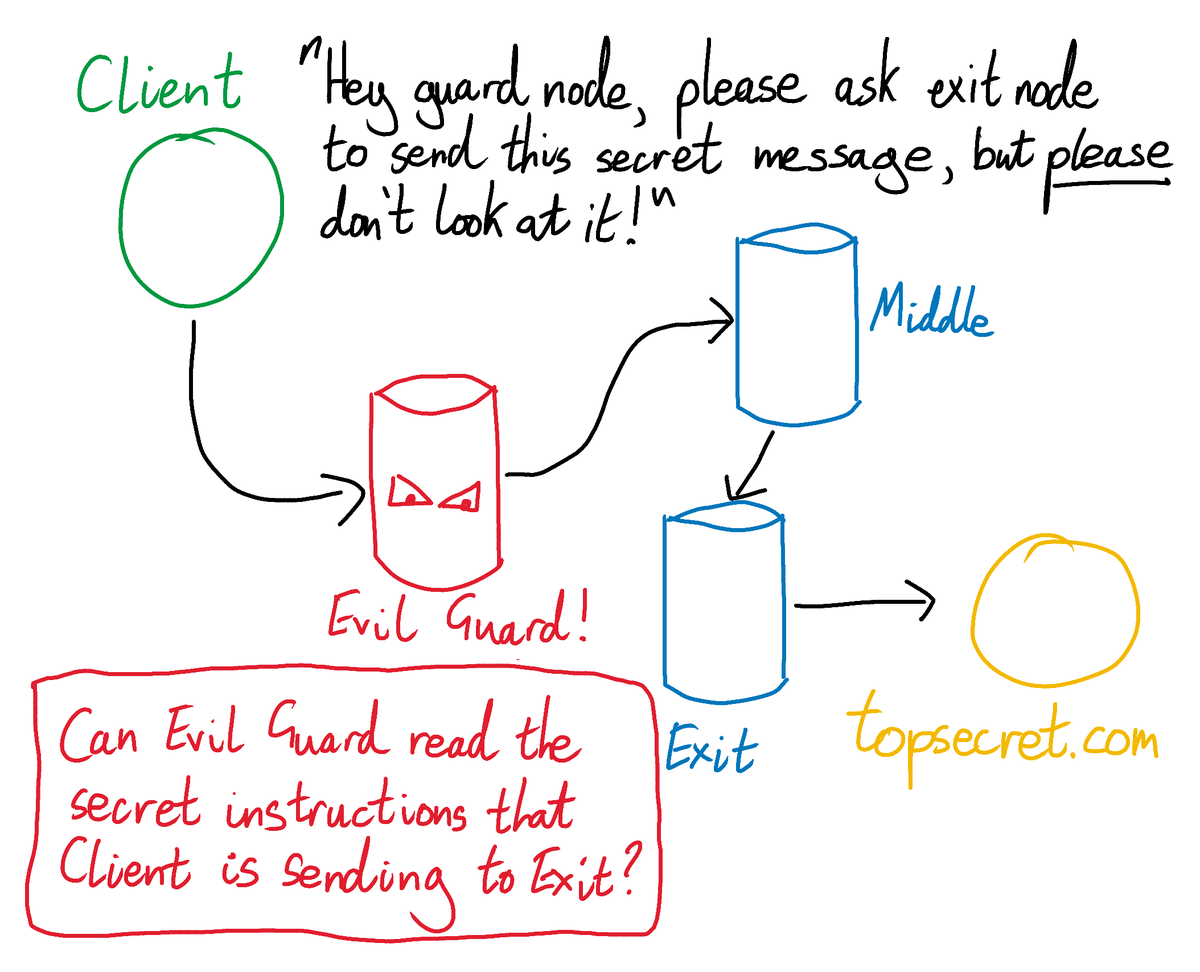
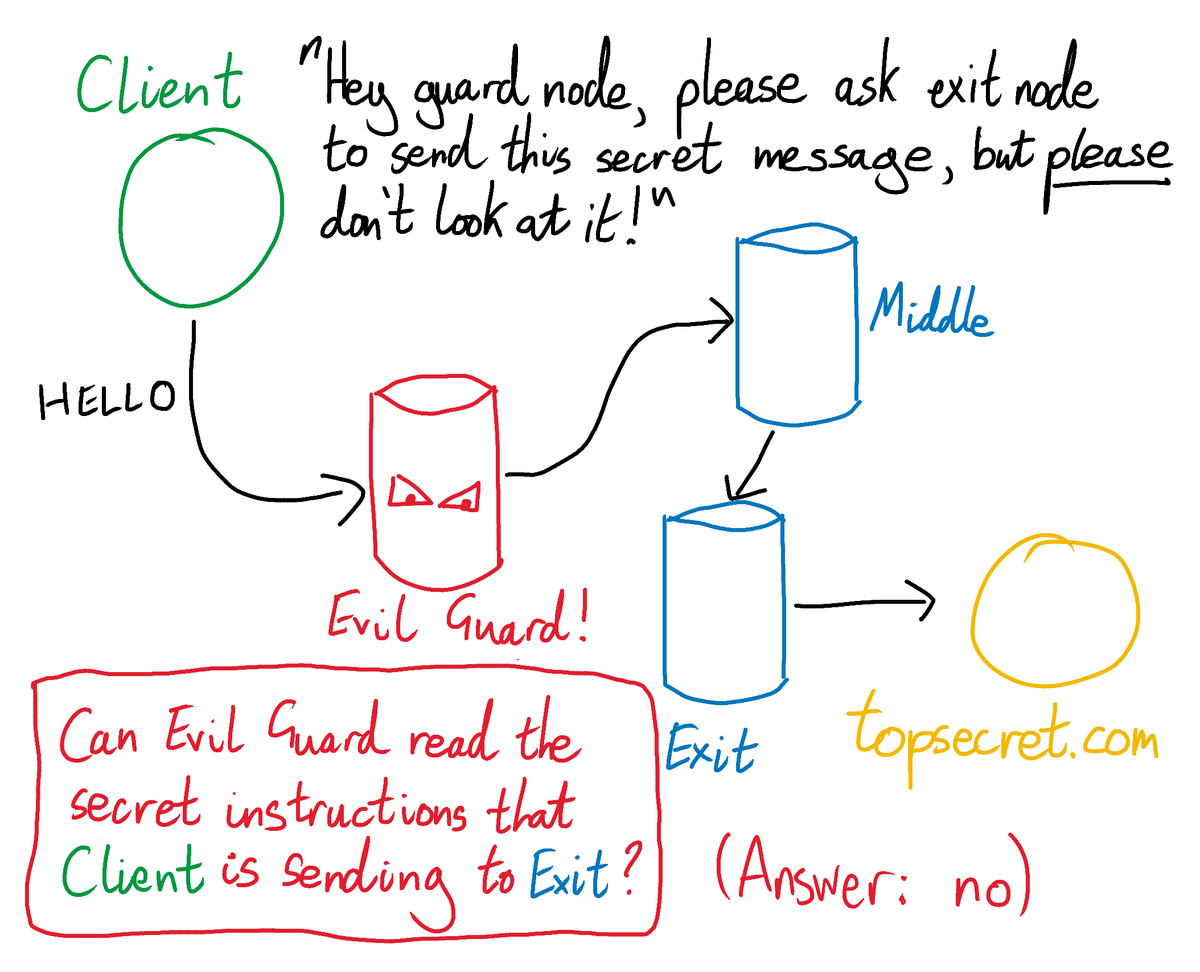
tor

diff --git a/_posts/2019-02-20-a-comprehensive-introduction-to-tor.md b/_posts/2019-02-20-a-comprehensive-introduction-to-tor.md
@@ -1,0 +1,196 @@
+---
+title: "A comprehensive introduction to Tor"
+layout: post
+tags: [Security]
+og_image: https://robertheaton.com/images/afl-ruby-cover.png
+published: false
+---
+Person X is a pro-democracy activist who lives in an anti-democratic country. She uses the internet to communicate with other activists and human rights watchdogs. Person X is not her real name, but that's OK because she's not a real person either. The government controls her country's only Internet Service Provider, and it uses this power to run a very effective online censorship and spying program. The internet is a dangerous place for Person X.
+
+[PIC of something]
+
+The first time that Person X used the internet to communicate with her fellow activists, she did so using unencrypted HTTP. The government was monitoring her network traffic, and was able to record the websites that she visited, the passwords that she used, and the messages that she sent. Once the government had seen enough, they arrested Person X and threw her in jail for reeducation. They also used her passwords to impersonate her online, and were able to destroy the activist cell that she had been a part of.
+
+Person X did not learn much about the dangers of freedom while she was in jail. However, she did learn a lot about encryption and HTTPS. When she was released she joined a new activist group, and she started making sure to only communicate with her new comrades over encrypted HTTPS. Of course, the government and secret police were still monitoring Person X's network, but thanks to HTTPS they could no longer read the contents of any of her messages. However, they could still see the IP addresses of the servers that she was accessing, thanks to her IP packet headers. They noticed that many of these IP addresses belonged to servers known to be hosting seditious material, and began blocking her access to them. Snooping on Person X's browsing destinations also alerted the government to the existence of several new activist servers that it hadn't previously known about.
+
+Person X was frustrated and alone. Then one day a friend told here about the Tor network, and snuck her a USB stick containing a copy of the Tor browser. Person X started to use Tor to browse the internet, and was able to securely access banned websites once again. Even though the government had not stopped monitoring Person X's internet connection, Tor prevented them from seeing the IP addresses of the servers that she was accessing. The government no longer knew whether Person X was accessing harmless distractions that might help keep her downtrodden, or whether she was back to her old, troublemaking ways.
+
+Worried, the government tried to block all Tor traffic across the entire country. Person X countered by using *bridge nodes* and *pluggable transports* (see below) to disguise the fact that she was using Tor at all. She is still by no means perfectly safe from online surveillance. She could still be busted by carelessness, a sufficiently motivated and powerful adversary, or by statistical bad luck. Nonetheless, she's in a much better place than she used to be. Her battle continues.
+
+---
+
+Admittedly Tor is also very useful for people interested in buying and selling guns, drugs, and child porn. But the world is a complex place, and it's my blog so I get to choose the main characters.
+
+---
+
+## Introduction - Tor isn't magic
+
+The most common way that people access the Tor network is through the Tor browser. The Tor browser looks and feels just like any other modern web browser. But whereas Chrome and Firefox send their internet traffic directly to the websites requested by the user, the Tor browser sends it traffic via the Tor network.
+
+The Tor network is a web of 8000 or so (as of January 2019) servers, run and maintained by volunteers. Some of these volunteers are individuals; some are universities; some are companies. And even though they don't publicize this fact, some are almost certainly government intelligence agencies and other organizations interested in attacking the Tor network. However, even though this type of subterfuge is absolutely something for Tor to be concerned about, it is not a particularly existential problem. As we will see, so long as the fraction of Tor nodes controlled by adversaries stays low, the network remains secure.
+
+There's nothing special about Tor nodes or Tor traffic. Tor nodes are just normal computers connected to the normal internet that happen to be running a piece of software called `tor`. The Tor network is just what you get when these nodes start talking to each other. You can use the Tor network to access the normal internet, or special "onion sites" that are only accessible via Tor. In this post we're only going to look at how Tor accesses the normal internet. Onion sites are a fascinating story for another day.
+
+Tor nodes even communicate over the same cables as everyone else. There's no secret skein of clandestine, dark-web fibre that only Julian Assange has the password for. Instead, Tor provides private connections over the public internet using misdirection.
+
+## Tor keeps you safe from snoopers
+
+When you visit a website using a normal web browser, your computer makes a direct TCP connection with the website's server. Anyone monitoring your internet connection (or that of the server) could trivially inspect your IP packet headers, discover the IP addresses of both you and the server, and deduce that you were communicating with each other. So long as you and the server were communicating using encrypted HTTPS, the snooper wouldn't be able to read the actual contents of your messages. But - as Person X knows all too well - sometimes even just knowing *who* you are communicating with is all the information an adversary needs.
+
+By contrast, when you visit a website using the Tor browser, your computer never communicates with the website's server directly. Instead, the Tor browser constructs a twisty path through a random set of 3 Tor nodes, and sends your data via this *circuit*. The browser starts by sending your data to the first (or *guard*) node in the circuit. The guard node sends your data on to the second (or *middle*) node. The middle node sends your data on to the third (or *exit*) node, and finally the exit node sends your data to the website's server. If the server wants to send a response back to you then it sends it to the exit node, and the Tor network takes care of propagating the response back along the circuit.
+
+<img src="/images/tor-network.png" />
+
+All that a snooper watching your internet connection can see is traffic going to the first node in your Tor circuit. The snooper has no easy way of knowing where your traffic goes after that. Similarly, all that a second snooper watching a web server's connection can see is traffic coming from Tor exit nodes. This snooper has no way of knowing where this traffic originated.
+
+<img src="/images/tor-attacker-client.png" />
+
+## Tor keeps you safe from the Tor network
+
+What if an attacker gave up on eavesdropping, and instead set up a Tor relay node of their own? After all, if you can't beat ‘em, join their decentralized network. You don't need to prove your identity or good character in order to run a Tor node, and the attacker could almost certainly keep their true intentions secret for a long time. The attacker's new node would eventually become an accepted part of the network, and Tor users would start using it as part of their circuits. It's therefore not enough for Tor to protect its users from external eavesdroppers; it also has to protect them from other participants in the Tor network.
+
+This is not a theoretical threat. There almost certainly exist Tor nodes run by organizations that wish the network harm. However, so long as the fraction of Tor nodes controlled by adversaries remains low and manageable, Tor remains statistically secure.
+
+Tor's definition of security is that no one (apart from the Tor end-user) is able to discover the IP addresses of both the origin and destination of a Tor circuit. If this property holds, Tor is secure, even if traffic sometimes flows through nodes controlled by an adversary. If traffic flows through an adversary-controlled node, but does not help this adversary learn the IP addresses of both the origin and destination of a Tor circuit, then the Tor Foundation simply thanks the adversary for their generous donation of bandwidth to the network.
+
+Let's see how Tor keeps its users safe from the Tor network itself. Let's look at what happens when Alice uses Tor to browse `topsecret.com`, and consider what each node in her circuit knows about her.
+
+Alice's first (or *guard*) node knows her IP address, but it has no idea who she is talking to. The guard node is not responsible for communicating directly with the `topsecret.com` server, and it only ever forwards Alice's traffic to the middle node of the circuit. It has no way of knowing what the middle node does next.
+
+The middle node knows nothing of any importance at all. It knows the IP address of the guard node and the exit node, but it has no idea who is on the other sides of either of them. It doesn't know that it is transporting Alice's traffic, and it doesn't know that this traffic is eventually headed to `topsecret.com`.
+
+Finally, the exit node knows that someone is using Tor to browse `topsecret.com`. But since it only ever communicates with the middle node, it has no idea who this person is.
+
+All of this means that if Alice builds a circuit that passes through a single adversary-controlled node, she remains entirely safe. This is an impressive property that makes attacking the Tor network difficult, but it is not the end of the story. If Alice gets unlucky and chooses adversary-controlled nodes for both her guard and her exit nodes, she is back in danger of being deanonymized. We'll look more at this later.
+
+## Can't nodes snoop on each other?
+
+Suppose that Alice chooses an adversary-controlled guard node. What if this malicious guard node peaked at Alice's traffic before forwarding it on to the middle node? What if it read the routing instructions - including the end-server's IP address - that were only intended to be read by the nodes further down Alice's circuit? Wouldn't this allow the guard node to discover the IP addresses of both Alice and the server she is communicating with, thereby breaking Tor?
+
+<img src="/images/tor-evil-guard.png" />
+
+It would not. Tor prevents its nodes from snooping on each other's instructions in this way by wrapping its payloads in multiple layers of TLS encryption. The inventor of this approach decided that this looked a bit like the layers of an onion, and this is where the name "Tor" or "The Onion Router" comes from. The analogy is a little tenuous if you ask me, but it makes for a whimsical logo.
+
+When a Tor client constructs a circuit, it negotiates TLS sessions with each of the nodes it has chosen for its circuit using the nodes' TLS certificates and public keys (see below for more details on this process). The outcome of each TLS session negotiation is a symmetric encryption key, known only to the client and the node. In particular, thanks to TLS's impressive security properties, none of the other nodes in the circuit know the symmetric keys of the others.
+
+When the client wants to communicate with the guard node - for example during the circuit setup - it encrypts its message using the symmetric key it agreed with the guard node. The guard node uses this key to decrypt the message, and reads it. That's normal enough, and is how TLS is usually used for [protocols like HTTPS](/2014/03/27/how-does-https-actually-work/).
+
+Things get more onion-like when the client wants to send data through the full Tor circuit and out to the remote server on the other side. This time the client constructs its payload using three layers of encryption - one for each node in the circuit. The client assembles the data that it wants to send to the remote server, and encrypts it using the symmetric key it agreed with the exit node during their TLS negotiation. It then takes this encrypted output, and re-encrypts it using the symmetric key it agreed with the middle node. Finally, it takes the now doubly-encrypted output, and encrypts it for a third time using the symmetric key it agreed with the guard node.
+
+The client is now ready to send its triply-encrypted payload through the circuit. It sends the payload to the guard node. The guard node uses its symmetric key to decrypt the first layer, peeling off the outermost layer of the onion. This gives the guard node a now doubly-encrypted payload, together with an instruction for where to forward it. A malicious guard node can't decrypt the payload any further, since it doesn't possess the necessary symmetric, TLS-negotiated keys.
+
+<img src="/images/tor-triple-encryption.png" />
+
+The guard node forwards the doubly-encrypted payload to the middle node. The middle node uses its own symmetric key to peel off the second layer of the onion. This gives it a singly-encrypted payload and an instruction for where to forward it.
+
+The middle node forwards the singly-encrypted payload to the exit node. The exit node peels off the final layer of Tor's encryption, and sends the fully decrypted payload to the remote server on the other end of the Tor circuit. Tor's work is now complete. Hopefully the client and the server are using a further layer of encryption so that not even the exit node can read their actual plaintext messages. This could simply be an HTTPS connection, negotiated over the Tor circuit. However, this is up to the client and remote server to sort out, and is outside of the scope of Tor.
+
+These multiple layers of encryption help to ensure that no node in the circuit knows the identity of both sides of the connection.
+
+## The different between Tor and a VPN
+
+Compare a Tor circuit to a traditional VPN, another partially privacy-motivated piece of software. When you use a VPN, your computer sends all of your internet traffic to your VPN, and your VPN forwards it to the appropriate destinations. All your ISP or anyone watching your network ever sees is traffic heading from you to your VPN. They can't see inside your encrypted connection with your VPN, which means that they can't see which remote servers you are communicating with.
+
+A VPN might therefore sound like a much simpler way of achieving the same level of privacy as Tor. It is not. The privacy from local adversaries that you get from a VPN comes at the cost of revealing everything you do to your VPN. Your VPN sits in the middle of all of your connections, seeing both sides of every connection. It communicates directly with both you and the end servers that you are talking to, and therefore sees both of your IP addresses. A VPN doesn't give you the same separation of knowledge as Tor. Whereas a rogue Tor relay node is entirely survivable and par for the course, a rogue VPN provider can trivially log and exploit your entire browsing history. If you use a VPN then you had better be sure that you trust the security and integrity of whoever runs it.
+
+<img src="/images/tor-vpn.png" />
+
+What if you set up your VPN to forward all your traffic to a second VPN, and made that second VPN responsible for forwarding your traffic on to the appropriate destination? Now the first VPN only ever sees the IP addresses of you and of the second VPN. Similarly, the second VPN only ever sees the IP addresses of the first VPN and of the websites that you are communicating with. If you sign up to the second VPN using a fake name and a sufficiently anonymous source of funds, neither VPN ever knows your full story. This is called *proxy-chaining*, and is not a wholly bad idea, but at this point all you're really doing is gluing together a jerry-rigged, less secure version of Tor.
+
+---
+
+## Attacking Tor
+
+Tor protects its users against *traffic analysis* attacks, in which an attacker tries to answer the broad question "who is Alice talking to?" However, Tor is quite open about the fact that it does not protect against *confirmation attacks*, in which an attacker tries to answer the specific question "is Alice talking to Bob?"
+
+A confirmation attack is not trivial, and requires a large amount of up-front preparation. In order to confirm a hypothesis that Alice and Bob are talking to each other over a Tor circuit, an attacker needs to be able to monitor both ends of their circuit. The attacker can do this either by monitoring each of their internet connections directly, or by monitoring both the guard and exit nodes of one of Alice and Bob's Tor circuits.
+
+Once the attacker has their monitoring set up, they can analyze the volume and shape of traffic that Alice and Bob send and receive. Even if Alice and Bob's communication is encrypted - and therefore unreadable by the attacker - the attacker can still see whether their broad traffic patterns match up with each other. Does Alice tend to receive packets at the same time as Bob sends them? If yes, the attacker can infer that Alice and Bob are communicating with each other.
+
+Circuits are constructed randomly, and so an attacker can't force Alice and Bob to construct a circuit using its rogue relay nodes. However, the more nodes and the more bandwidth an attacker controls, the more likely it becomes that Alice and Bob will eventually form a circuit that uses both a guard and an exit node controlled by the attacker. This is all the opening that the attacker needs. An attack in which an adversary systematically tries to ratchet up their control of a network is known as a *Sybil Attack*, after the main character of the book *Sybil* by Flora Rheta Schreiber.
+
+Sybil Attacks are not theoretical. In 2014 researchers at Carnegie Mellon University appeared to successfully carry out a Sybil Attack against the real life Tor network. This was a controversial episode that I won't attempt to write a comprehensive account of. Many other delightful attacks exist within the academic literature too. For example, 2006 paper by Steven Murdoch describes [success deanonymizing an onion server by hammering it with vast quantities of traffic](https://www.freehaven.net/anonbib/cache/HotOrNot.pdf), causing its CPU to overheat and slightly altering its clock skew.
+
+Anecdotally I've heard that the NSA and GCHQ are not currently particularly concerned with fundamentally breaking the Tor network. If they need to go after any Tor users then they instead rely on breaking their operational security. Ross Ulrich - founder of the Silk Road dark website - gave himself away by [careless use of social media](https://www.theguardian.com/technology/2013/oct/03/five-stupid-things-dread-pirate-roberts-did-to-get-arrested), and if you want to buy weapons online then you still have to send a gun-toting stranger your home address.
+
+---
+
+## How a Tor circuit is formed
+
+Constructing and co-ordinating a circuit of 3 Tor nodes requires a deft touch and a detailed protocol. When asked to construct a circuit, the Tor daemon running on your computer has to choose the 3 nodes that it wants in its circuit, ask them if they're available, and negotiate a symmetric encryption key with each of them. Once your Tor browser has constructed a circuit, it uses this circuit for all of its traffic for the next 10 minutes, at which point it constructs a new one. It uses this new circuit for all new circuits, although any TCP streams using the old circuit stay on the old circuit. Your Tor browser also immediately constructs a new circuit if its current one ever fails.
+
+Let's start at the beginning, and look at how your Tor daemon chooses the 3 nodes that will form its circuit. In order to do this, your Tor daemon will need access to an up-to-date list of all nodes in the Tor network and their capabilities. It gets this list from Tor's *directory nodes*.
+
+## Directory nodes
+
+The state of the Tor network is tracked and publicized by a group of 9 trusted servers - known as *directory nodes* - each of which is controlled by a different person or organization. Having 9 independent nodes provides redundancy if any of them ever go down, as well as distributing trust more widely if any of them ever get compromised.
+
+When a Tor participant (either a client or a node) wants to know the current state of the network, it asks a directory node. Directory nodes are kept up to date on the latest network news by the relays themselves, which send each directory node a notification whenever they come online or update their settings. Whenever a directory node receives such a notification it updates its personal opinion of the current state of the Tor network.
+
+<img src="/images/tor-directory-nodes.png" />
+
+Since Tor is a real world distributed system, sometimes these update notifications fail, and the opinions of the directory nodes diverge. Perhaps directory nodes 1-7 successfully receive relay node A's "I'm online" notification, but nodes 8 and 9 do not. Suddenly the all-knowing co-ordinators of the Tor network disagree with each other. This disunity needs resolving.
+
+The first version of Tor took a very passive and simple approach to conflict resolution. Each directory node returned the state of the the network as it personally saw it, and each client believed whichever directory node it had spoken to most recently. This would be a reasonable approach in many distributed systems, but for a privacy-paranoid system like Tor it was quite flawed.
+
+It was flawed because nothing was ensuring that directory nodes were telling the truth. If an attacker were able to compromise even a single directory node, they would have been able to lie about the state of the network with impunity. If a Tor client asked the compromised directory node "can I have a list of active Tor relay nodes please?" then the attacker could (for example) respond with a list containing only relay nodes that they controlled. The client would then construct a fully attacker-controlled circuit. Alternatively, if the attacker wanted to be more subtle, they could reply with the true list of Tor relay nodes, plus one extra exit node that they controlled but had until now kept secret. If the attacker made sure to only ever tell a single target Tor client about this extra exit node, then the attacker would know that any traffic seen by this extra exit node must have come from this target.
+
+The second version of the Tor directory system made this kind of attack much harder. Instead of asking a single directory node for its view of the world, clients asked every directory node individually, and then combined their views into a consensus. This protocol change meant that a single rogue directory node could no longer distort a client's view of the network, as the rogue node would be outvoted by the remaining honest ones. However, clients could still end up computing differing consensus views of the network, depending on exactly when they had last spoken to each directory authority. This raised the possibility of statistical information leakage - a more mild version of the vulnerability described in the previous paragraph. In addition, now every client had to talk to every directory node, which greatly increased the amount of information overhead required to run the Tor network.
+
+The third and current version of the directory system moves the responsibility for calculating a consensus from the clients over to the directory nodes themselves. Once an hour the 9 directory nodes exchange their views of the network with each other, and then combine these views into a single consensus. The resulting consensus is agreed upon and signed by all 9 directory nodes, and for the next hour every directory node returns this same signed view to every client. This approach maintains the fault tolerance and distributed trust benefits of a decentralized system, whilst ensuring that all clients see the same view of the network.
+
+Once a client has retrieved an up to date picture of the network from a directory node, it is ready to form a circuit.
+
+## Forming a circuit
+
+A Tor circuit is made of a guard node, a middle node, and an exit node. The client starts the circuit formation process by contacting the node it has chosen as its guard node. The client and guard node negotiate a TLS session, and the client asks the guard node to help it initialize a Tor circuit.
+
+Next is the middle node. Tor's privacy requirements mean that the middle node mustn't ever know who the client is, or who the client is communicating with. This means that the client can't ever talk to the middle node directly - even just to negotiate a TLS session - since this would reveal the client's IP address to the middle. The client therefore talks to the middle node *via the guard node*. By sending traffic to each other through the guard node, the client and the middle node negotiate a new TLS session of their own, without ever making a direct connection with each other. Once they have finished, the client and the middle node have agreed a secret symmetric encryption key, and the client's Tor circuit has been extended by one node.
+
+Next the client extends its circuit a second and final time, this time to the exit node. This process is identical to extending the circuit to the middle node, except this time the TLS session negotiation between client and exit node happens via both the guard and middle nodes. Once the final hop of the circuit has been established, the client has negotiated a separate, symmetric TLS key with each node in its circuit. The circuit is ready to send and receive data using the triply-encrypted method described above.
+
+## More on circuits
+
+### Should you rely on randomness?
+
+The Tor client chooses the nodes in its circuits randomly. However, in principle it could make these choices using any process it wanted. This begs the question; could you form better, more secure circuits by choosing nodes deliberately instead of randomly?
+
+For example, one of the useful properties of using Tor is how it muddies jurisdictional waters by routing traffic across national borders. Should you therefore choose our nodes to ensure that we cross as many borders as possible? Should you choose them so that you enter and exit the Tor network in a friendly jurisdiction, or one other than the one in which we live?
+
+In general the answer to these kinds of questions is no, unless you have a particularly good reason, and even then maybe not. Tor relies on the fact that all of its users' traffic is close to indistinguishable, and indeed traffic sent by uncustomized Tor clients should statistically look identical. But the more you customize your settings, the more you start to single yourself out. If you refuse to use exit nodes in Iran, or are only willing to use those in Sweden, attackers can narrow down the range of traffic that might belong to you. This might not be a practical problem for small customizations - refusing to use exit nodes in Syria is unlikely to give you away on its own - but small customizations have the potential to add up to a unique, identifiable configuration. Furthermore, if you really do have a good reason for making this kind of customization then it's possible that the internet is too much of a dangerous place for you, even if you're protected by Tor.
+
+### Guard pinning
+
+When a Tor client starts up for the first time, it chooses a small, random set of guard nodes. Then, for the next few months, it makes sure that each circuit it constructs uses one of these pre-selected nodes as its guard node. It still chooses new middle and exit nodes for each circuit.
+
+This may sound counter-intuitive. Surely it would be better for Tor to reuse nothing, erase everything, and completely switch up its circuits as often as possible? The justification for guard pinning lies in Tor's specific threat model. Tor assumes that it may only take one opening for an attacker to work out who you are and who you are talking to. This means that a single vulnerable circuit is almost as bad as a hundred. Tor therefore doesn't try to minimize the average, expected number of vulnerable circuits that you will construct. Instead, it minimizes the probability that you will ever construct one or more vulnerable circuits.
+
+Guard pinning does not change the average, expected number of vulnerable circuits that you will construct. However, this is not the metric that Tor is trying to optimize. Guard pinning increase the chance that none of your circuits will be compromised (if you pin to good guard nodes). It also increases the chance that a large number of your circuits will be compromised (if you pin to bad guard nodes), but Tor assumes that this outcome is not *that* much worse than a single circuit being compromised. Statistically bunching up your vulnerable circuits therefore keeps you safer. On average.
+
+You can read more about the subtleties of guard pinning on [the Tor Project website](https://www.torproject.org/docs/faq#EntryGuards).
+
+### Bridge nodes
+
+The complete, up-to-date list of Tor relay nodes is public and available for anyone to download from a directory node. Tor clients use this list to select the nodes that will form their circuits.
+
+However, adversaries can query directory nodes too. Even if a repressive state has given up on cracking Tor, it can still try to censor and block its use. The state can query a directory node for a list of active Tor relays, watch its country's internet pipes, and identify people who are sending their traffic via a relay. The state can censor and block Tor traffic, and/or visit massive retribution upon its users. TorProject.org notes that "using Tor is legal in almost all countries", but they don't call them repressive states for nothing.
+
+Tor tries to help its users circumvent the censors and hide the fact that they are using Tor through an additional type of node called a *bridge node*. A bridge node is essentially a proxy into the Tor network. A Tor user sends their traffic to the bridge node, which forwards their traffic onto the user's chosen guard node. Circuit construction and exchange of data with the remote server continue as normal, but with one additional hop via a bridge node.
+
+<img src="/images/tor-bridge.png" />
+
+Unlike relay nodes, the full list of bridge nodes is never published. This makes it difficult for censors to maintain a complete list of them, and therefore difficult for them to completely seal off their country from the Tor network. Tor users can ask to be sent the IP addresses of a handful of bridge nodes by emailing blah@blork.com. If the censors identify and block a bridge node, users can simply rotate onto another one.
+
+Looking at packet destinations is not the only way in which censors can identify Tor traffic, however. They can also analyze the the traffic's shape and volume. This analysis is made difficult by the fact that traffic between Tor nodes is always encrypted using TLS - traffic sent over an established TLS session looks identical whether it is being sent over Tor or not. However, the way in which Tor establishes a TLS session is subtly different to the way in which a non-Tor browser establishes one. A government censor could monitor its country's internet; watch for the telltale signs of a Tor TLS session being established; block the connection when it sees one; and add the bridge server to a watchlist. Tor developers are countering with systems that disguise Tor traffic and make it look more like vanilla HTTPS. These systems are known as "pluggable transports".
+
+---
+
+## In conclusion
+
+Tor isn't bulletproof, but neither does it claim to be. Even though it keeps its users extremely anonymous against all except the most motivated of adversaries, Sybil attacks, confirmation attacks, and sheer bad luck can still ruin these users' otherwise bullet-free day.
+
+The Tor browser is about as usable as it can be, given its privacy and security requirements. Anonymity and misdirection are fine words in the abstract, but they can be quite inconvenient when they have to be implemented on a real network. Requests sent through Tor are slow. Websites don't remember who you are, even when it would actually be kind of useful if they did. Your search results aren't personal- or local-ized, and you have to click that stupid cookie law thing every single time you visit a website.
+
+I personally don't use Tor. I draw my convenience-privacy tradeoff line at a normal browser with several layers of adblockers and other privacy tools. I understand that this means that my ISP can see which websites I visit. However, my current ISP is Sonic Internet, whose marketing is bubbly and self-righteous enough to make me assume that they probably (hopefully) aren't doing anything too nefarious. 
+
+The first thing they teach you in kindergarten is "trust no one". But maybe even they'd agree that spreading your trust across three independent Tor relay operators is also OK.
